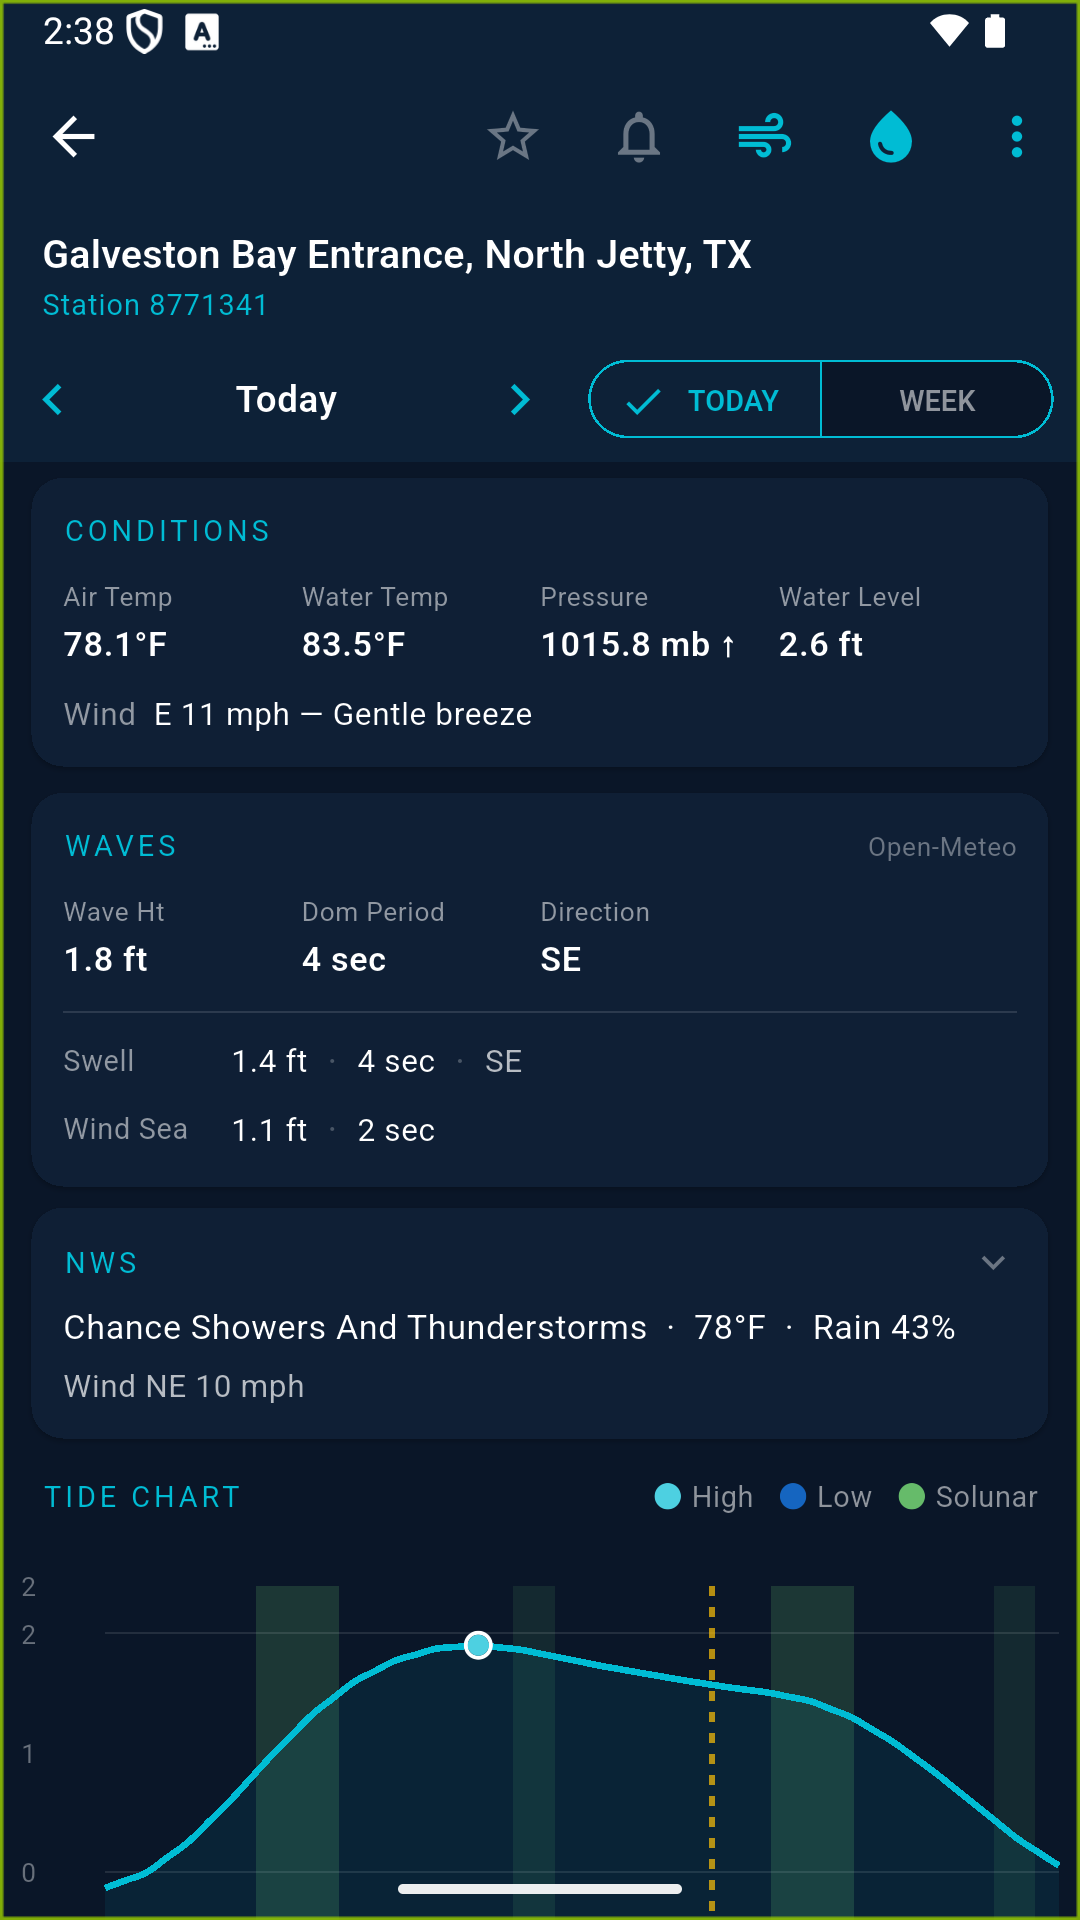
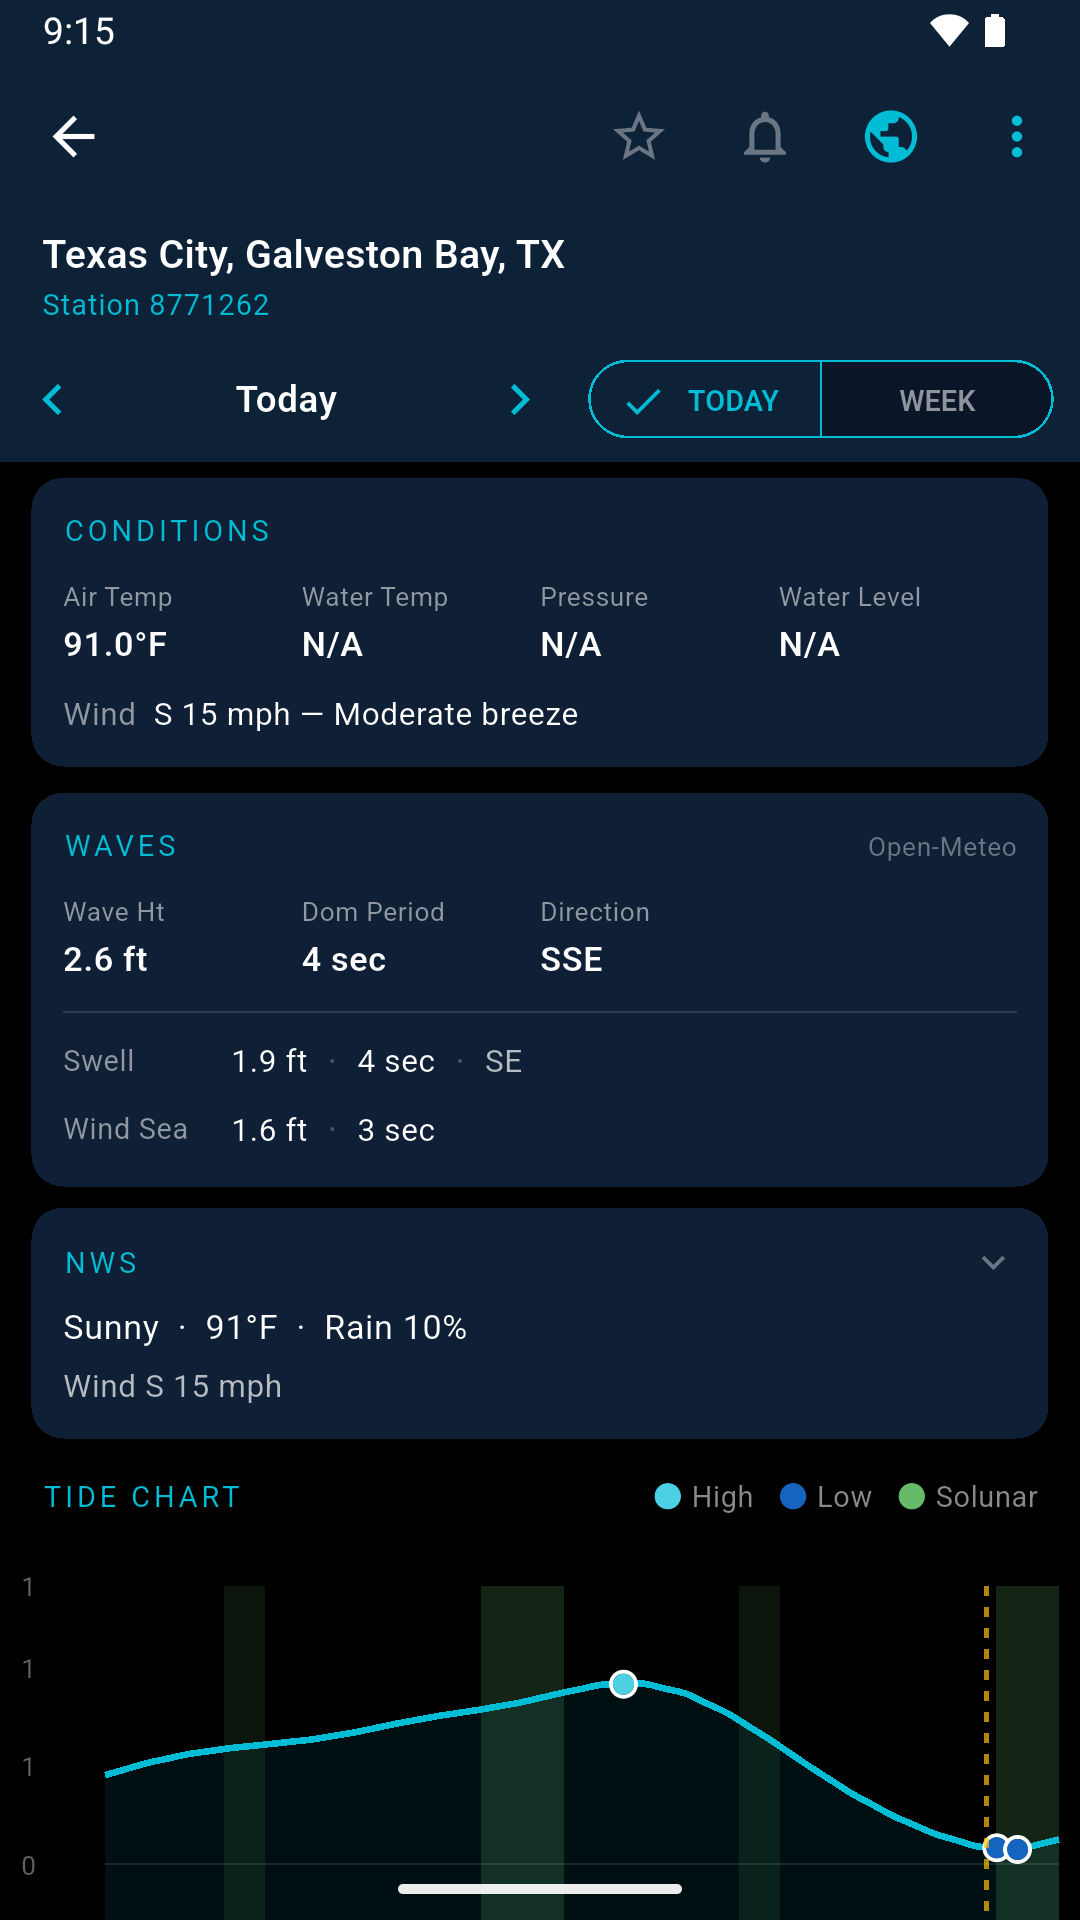
docs: README changelog + screenshots for v3.5.0 water temp features

diff --git a/README.md b/README.md
@@ -52,6 +52,28 @@ that point; the data follows the map as you pan and zoom.
 |----------------------------------------------------------|
 | ![Sargassum Map](screenshots/sargassum_map.png) |
 
+### New in v3.5 — Water Temp map, turbidity & upwelling alerts
+
+A new **Water Temp** map renders NOAA CoastWatch data straight onto the
+pannable map — pick a layer and the data follows the map as you move:
+
+- **Water Temp** — sea-surface temperature gradient from JPL MUR (1 km, daily).
+- **Upwelling** — SST *anomaly* vs. normal; blue = colder-than-normal water, the classic upwelling signal.
+- **Turbidity** — MODIS Kd490 water clarity (8-day composite), clear vs. murky water at a glance.
+
+All four maps now live under one **globe menu** on the station screen. When the
+water near your station runs well colder than normal, the Conditions card shows
+an **Upwelling likely** advisory and (if enabled) a once-a-day notification —
+cooler, often nutrient-rich water moving in is a bite-pattern changer.
+
+| Maps menu | Water Temp (NOAA/JPL MUR SST) | Upwelling (SST anomaly) |
+|-----------|-------------------------------|--------------------------|
+| ![Maps menu](screenshots/maps_menu.png) | ![Water Temp Map](screenshots/water_temp_map.png) | ![Upwelling](screenshots/water_temp_upwelling.png) |
+
+| Turbidity (MODIS Kd490) | Upwelling advisory + alert | Alert toggle |
+|--------------------------|----------------------------|--------------|
+| ![Turbidity](screenshots/water_temp_turbidity.png) | ![Upwelling banner](screenshots/upwelling_banner.png) | ![Settings](screenshots/settings_upwelling.png) |
+
 ### Units & Night mode
 
 | Standard / Metric toggle |
@@ -78,6 +100,12 @@ Android Auto only permits simple, safety-approved templates, so the car view can
 ---
 
 ## Changelog
+
+### v3.5.0 (build 58) — **Water Temp map, turbidity & upwelling alerts**
+- **Water Temp map** — a new three-layer ocean map from NOAA CoastWatch ERDDAP (free, no key): **sea-surface temperature** gradient (JPL MUR, 1 km daily), **upwelling** (SST anomaly vs. normal — blue = colder-than-normal water), and **turbidity** (MODIS Kd490 8-day water clarity). Server-rendered overlays follow the map as you pan/zoom, with per-layer legends (°F/°C aware), a data-age chip, and a friendly retry when NOAA is slow.
+- **Upwelling advisory + alert** — when the daily SST anomaly near a station drops 1.5 °C or more below normal, the Conditions card shows an *Upwelling likely* heads-up, and stations with notifications enabled get a once-a-day alert (new per-alert toggle in Settings). Cold anomalies can also follow fronts, so the wording stays honest ("likely").
+- **Maps menu** — the wind, water-temp, salinity and sargassum maps now live under a single globe icon on the station screen, so the toolbar doesn't crowd on narrow phones.
+- Refresh on the station screen now also re-pulls the SST anomaly.
 
 ### v3.4.0 (build 55) — **Map tune-up: cleaner coasts, smoother open**
 - **No waves on land** — the Seas (WaveWatch III) layer now carries a water-coverage mask, so the wash follows the coastline with a soft edge instead of bleeding onto land.
